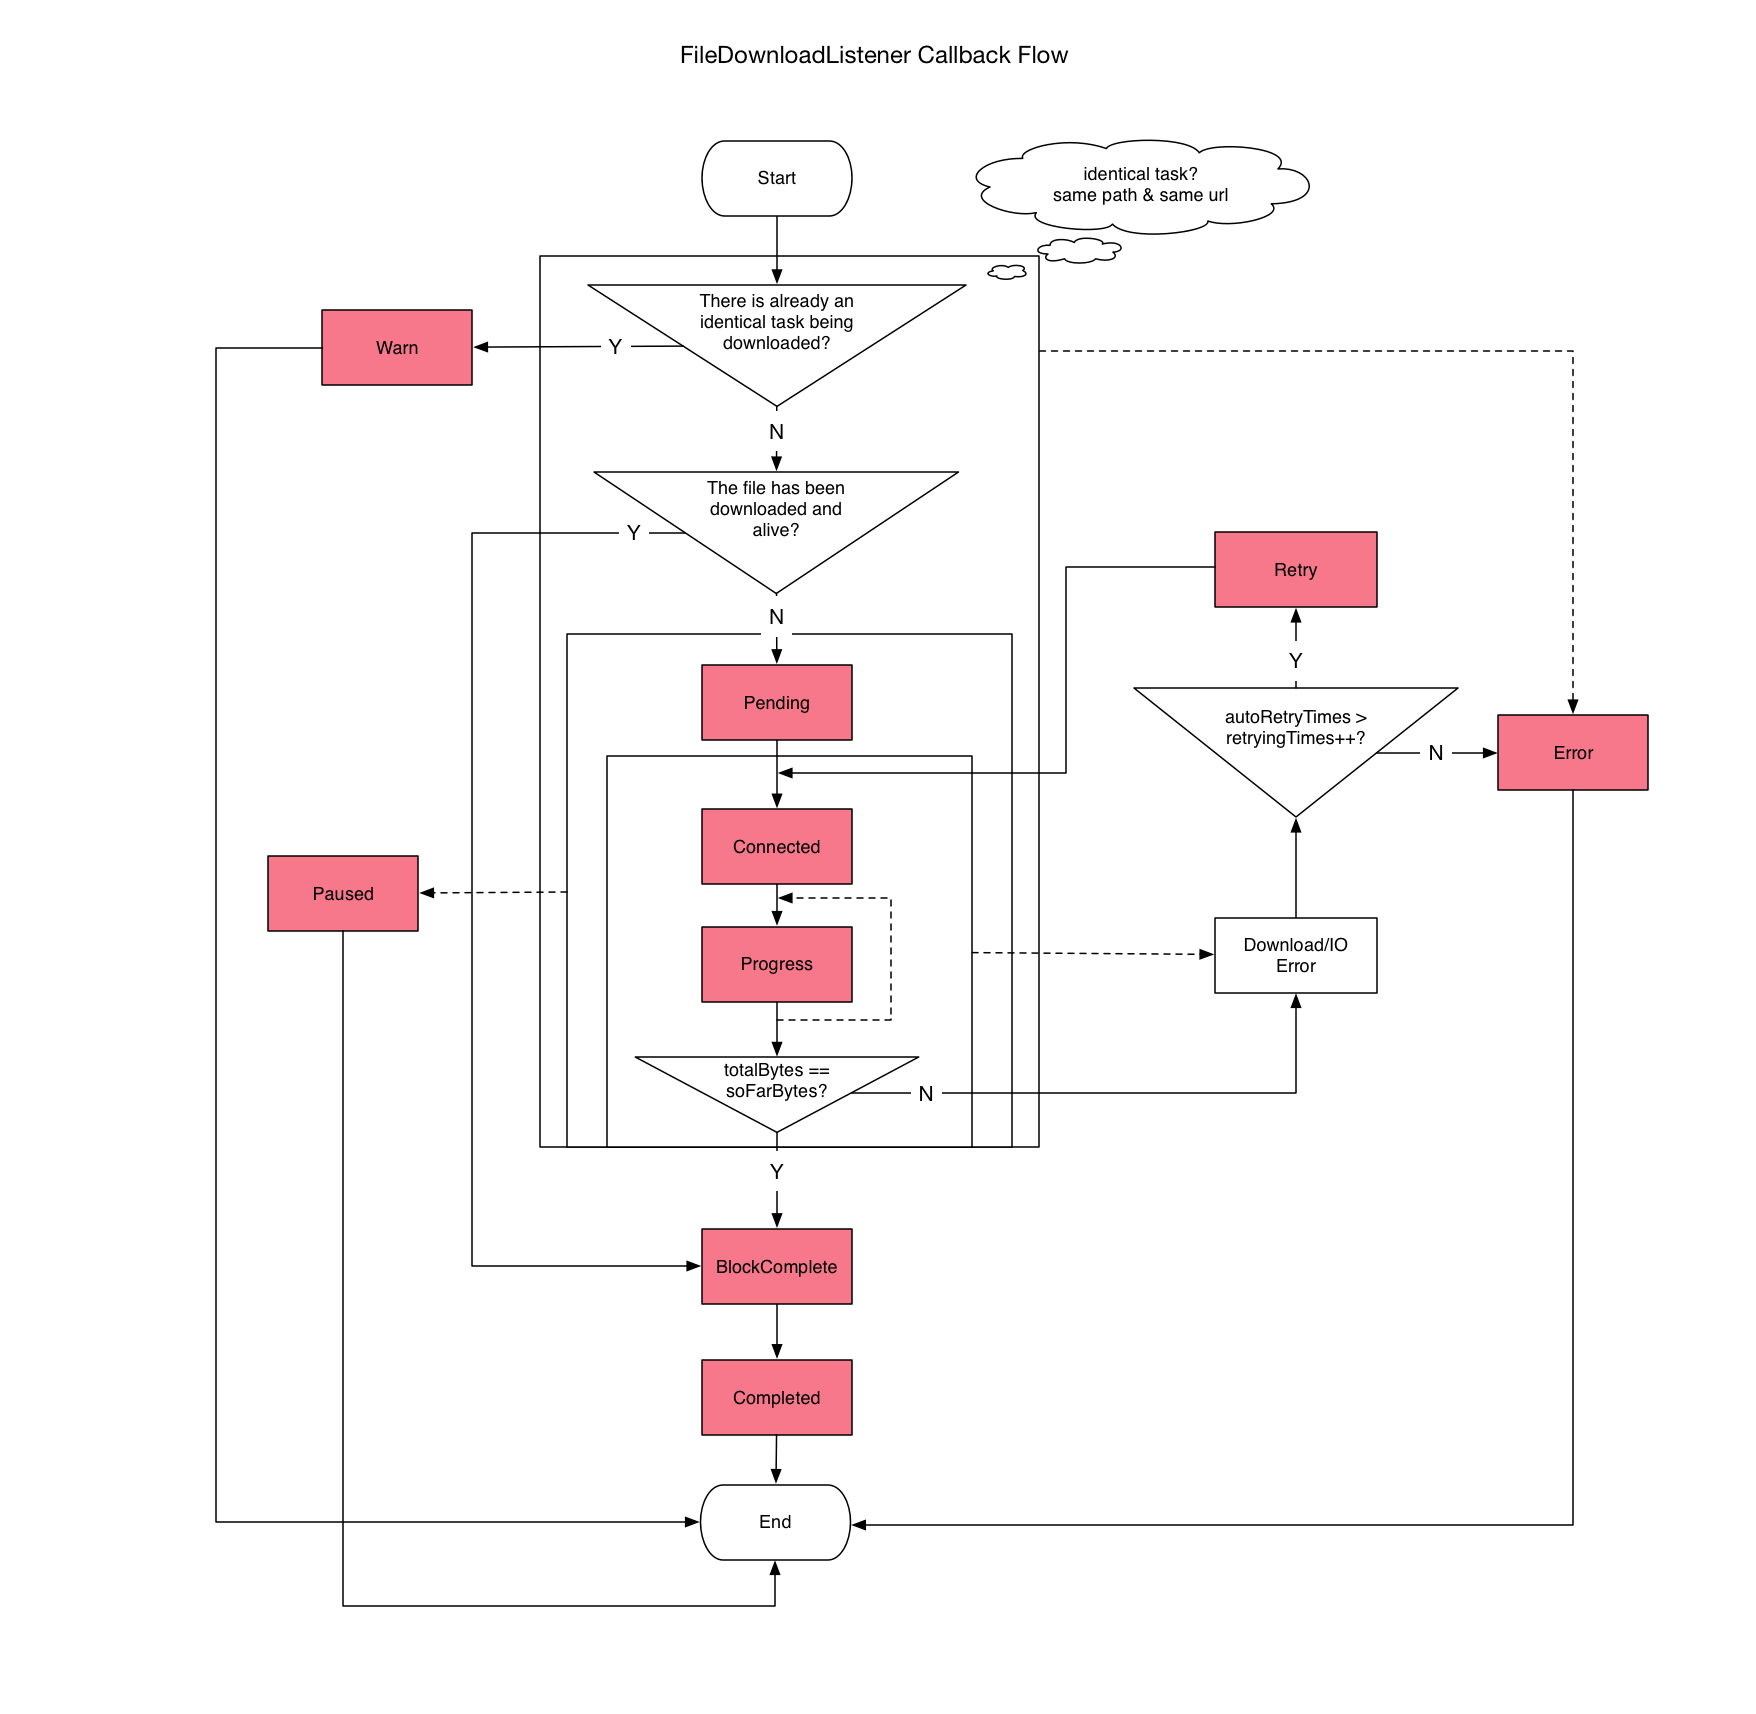
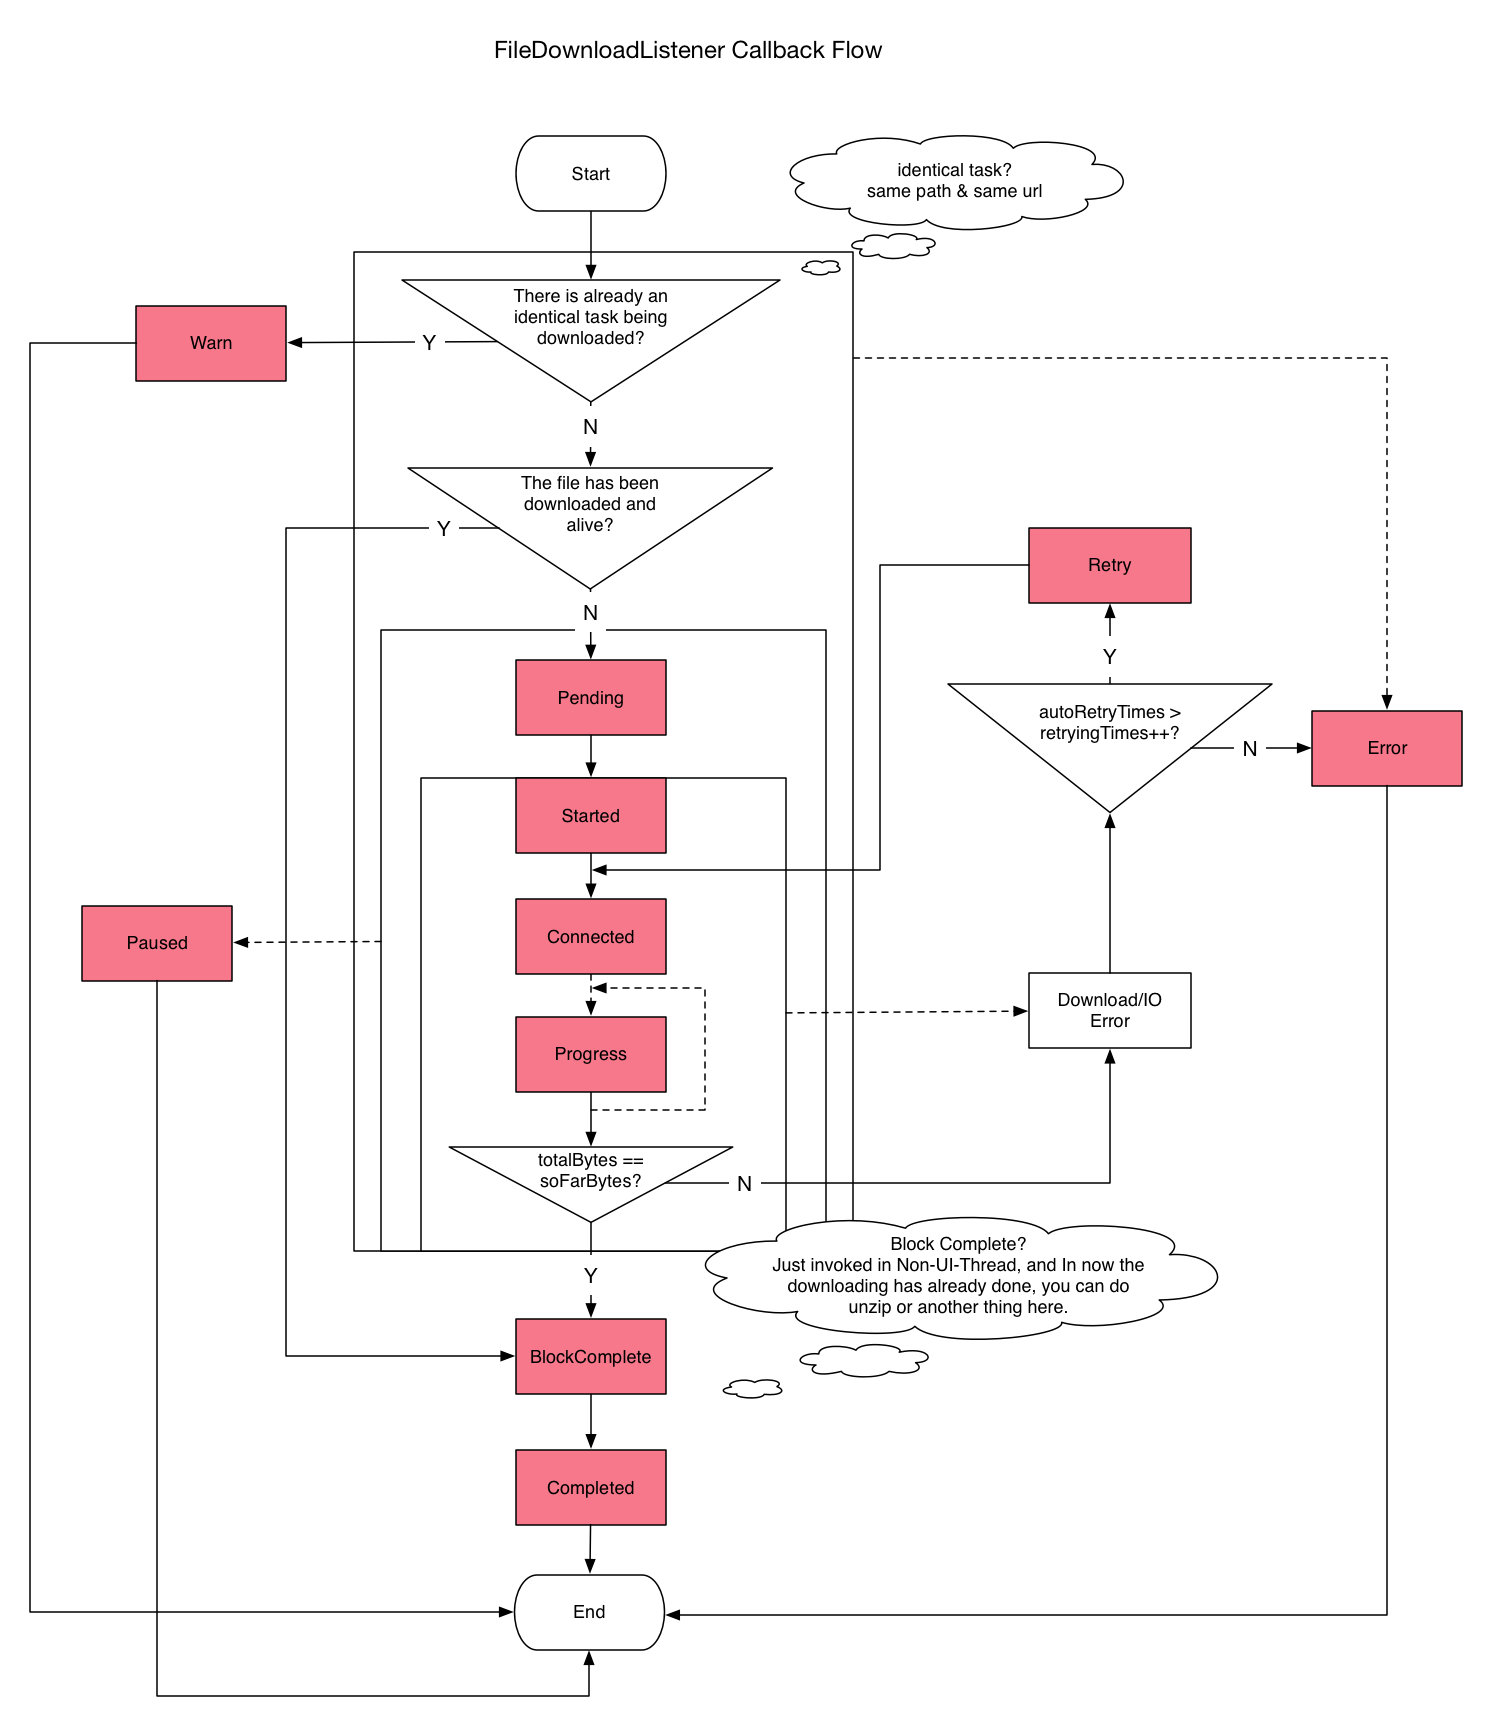
chore(upgrade): upgrade version name(0.2.2->0.2.3) code(13->14)

diff --git a/README.md b/README.md
@@ -26,7 +26,7 @@ FileDownloader is installed by adding the following dependency to your build.gra
 
 ```
 dependencies {
-    compile 'com.liulishuo.filedownloader:library:0.2.2'
+    compile 'com.liulishuo.filedownloader:library:0.2.3'
 }
 ```
 
@@ -280,7 +280,7 @@ queueSet.start();
 ##### Natural callback flow :
 
 ```
-pending -> connected -> (progress <->progress) -> blockComplete -> completed
+pending -> started -> connected -> (progress <->progress) -> blockComplete -> completed
 ```
 
 ##### Maybe get follow callback and finish the download:
@@ -298,6 +298,7 @@ blockComplete -> completed
 | function | description | update
 | --- | --- | ---
 | pending | Pending for download | soFarBytes、totalBytes
+| started | Finish pending, and start the download runnable for the task | -
 | connected | Connected to the remote file server | ETag、IsResumeBreakpoint、 soFarBytes、totalBytes
 | progress | Download progress | soFarBytes
 | blockComplete | Callback before the 'completed callback' sync in the new thread| -
@@ -334,10 +335,11 @@ blockComplete -> completed
 
 | interface | description
 | --- | ---
-| onRequestStart(count:int, serial:boolean, lis:FileDownloadListener) | will be invoked when request to start multi-tasks manually
-| onRequestStart(task:BaseDownloadTask) | will be invoked when request to start the task manually
-| onTaskBegin(task:BaseDownloadTask) | will be invoked when the task in the internal is begin(before pending)
-| onTaskOver(task:BaseDownloadTask) | will be invoked when the task in the internal is over(finish all lifecycle of the task)
+| onRequestStart(count:int, serial:boolean, lis:FileDownloadListener) | Will be invoked when request to start multi-tasks manually
+| onRequestStart(task:BaseDownloadTask) | Will be invoked when request to start the task manually
+| onTaskBegin(task:BaseDownloadTask) | Will be invoked when the task in the internal is begin(before pending)
+| onTaskStarted(task:BaseDownloadTask) | Will be invoked when the task finish pending and start download runnable
+| onTaskOver(task:BaseDownloadTask) | Will be invoked when the task in the internal is over(finish all lifecycle of the task)
 
 #### `FileDownloadUtils`
 
@@ -367,7 +369,8 @@ blockComplete -> completed
 | --- | ---
 | `FileDownloadHttpException`| Throw this exception, when the HTTP status code is not 200(HTTP_OK),  and not 206(HTTP_PARTIAL) either. You can find the request-header, the response-header and response-code in this exception.
 | `FileDownloadGiveUpRetryException` | Throw this exception, when can't know the size of the download file, and its Transfer-Encoding is not Chunked either; And With this exception, will ignore all retry-chances(`BaseDownloadTask#setAutoRetryTimes`). You can ignore such exception by add `http.lenient=true` to the `filedownloader.properties`, and will download directly as a Chunked-Resource.
-| Others | Program Exception, or the free space is not enough to store the download-file will throw the `IOException` .
+| `FileDownloadOutOfSpaceException` | Throw this exception, when the file will be downloaded is too large to store.
+| Others | some program Exceptions.
 
 ## Attention
 

diff --git a/README-zh.md b/README-zh.md
@@ -46,7 +46,7 @@ Android 文件下载引擎，稳定、高效、简单易用
 在项目中引用:
 
 ```
-compile 'com.liulishuo.filedownloader:library:0.2.2'
+compile 'com.liulishuo.filedownloader:library:0.2.3'
 ```
 
 #### 全局初始化在`Application.onCreate`中
@@ -280,7 +280,7 @@ if (parallel) {
 ##### 一般的下载回调流程:
 
 ```
-pending -> connected -> (progress <->progress) -> [retry] -> blockComplete -> completed
+pending -> started -> connected -> (progress <->progress) -> blockComplete -> completed
 ```
 
 ##### 可能会遇到以下回调而直接终止整个下载过程:
@@ -300,6 +300,7 @@ blockComplete -> completed
 | 回调方法 | 备注 | 带回数据
 | --- | --- | ---
 | pending | 等待，已经进入下载队列 | 数据库中的soFarBytes与totalBytes
+| started | 结束了pending，并且开始当前任务的Runnable | -
 | connected | 已经连接上 | ETag, 是否断点续传, soFarBytes, totalBytes
 | progress | 下载进度回调 | soFarBytes
 | blockComplete | 在完成前同步调用该方法，此时已经下载完成 | -
@@ -338,8 +339,9 @@ blockComplete -> completed
 | --- | ---
 | onRequestStart(count:int, serial:boolean, lis:FileDownloadListener) | 将会在启动队列任务是回调这个方法
 | onRequestStart(task:BaseDownloadTask) | 将会在启动单一任务时回调这个方法
-| onTaskBegin(task:BaseDownloadTask) | 将会在内部开始该任务的时候回调这个方法(会在`pending`回调之前)
-| onTaskOver(task:BaseDownloadTask) | 将会在该任务走完所有生命周期是回调这个方法
+| onTaskBegin(task:BaseDownloadTask) | 将会在内部接收并开始task的时候回调这个方法(会在`pending`回调之前)
+| onTaskStarted(task:BaseDownloadTask) | 将会在task结束pending开始task的runnable的时候回调该方法
+| onTaskOver(task:BaseDownloadTask) | 将会在task走完所有生命周期是回调这个方法
 
 #### `FileDownloadUtils`
 
@@ -370,7 +372,8 @@ III. 异常处理
 | --- | ---
 | `FileDownloadHttpException`| 在发出请求以后，response-code不是200(HTTP_OK)，也不是206(HTTP_PARTIAL)的情况下会抛出该异常; 在这个异常对象会带上 response-code、response-header、request-header。
 | `FileDownloadGiveUpRetryException` | 在请求返回的 response-header 中没有带有文件大小(content-length)，并且不是流媒体(transfer-encoding)的情况下会抛出该异常；出现这个异常，将会忽略所有重试的机会(`BaseDownloadTask#setAutoRetryTimes`). 你可以通过在 `filedownloader.properties`中添加 `http.lenient=true` 来忽略这个异常，并且在该情况下，直接作为流媒体进行下载。
-| 其他 | 程序错误; 或者是本地的存储空间已经不足以存储将要下载的文件会直接抛出`IOException` 。
+| `FileDownloadOutOfSpaceException` | 当将要下载的文件大小大于剩余磁盘大小时，会抛出这个异常。
+| 其他 | 程序错误。
 
 
 

diff --git a/CHANGELOG-ZH.md b/CHANGELOG-ZH.md
@@ -2,6 +2,32 @@
 
 > [ Change log in english](https://github.com/lingochamp/FileDownloader/blob/master/CHANGELOG.md)
 
+## Version 0.2.3
+
+_2016-04-11_
+
+#### 新接口
+
+- 添加 `FileDownloadOutOfSpaceException`, 当将要下载的文件大小大于剩余磁盘大小时，会抛出这个异常。
+- 在 `FileDownloadListener` 新增 `started` 回调方法: 在结束 `pending` 开始运行当前任务的线程时，回调该方法。
+- 在 `FileDownloadMonitor.IMonitor` 新增 `onTaskStarted` 回调方法，用于监控在结束 `pending` 开始运行当前任务的线程时，回调该方法。这样就可以在监控中通过 `onTaskBegin`到`onTaskStarted`计算出pending的时间，在`onTaskStarted`到`onTaskOver`计算出真正消耗在下载的时间(Connection、Fetching)。
+
+#### Enhancement
+
+- 提高实用性: 为 `FinishListener` 的 `over` 方法提供所指向的Task，为了有些时候我们为多个任务添加相同的 `FinishListener` 时，需要这个参数来判断当前是哪个任务的回调。 Closes #69 。
+- 提高稳定性: 如果调用一个正在运行中的Task对象的 `start` 方法，直接抛异常；并且为已经结束的Task对象提供 `BaseDownloadTask#reuse` 进行复用。 Closes #91 。
+- 提高性能: 在进入事件队列之前，拦截掉一些原本就没有监听器进行监听的事件。
+
+#### Fix
+
+- 修复: 在一些极端情况下，非结束的回调回调次数不符合预期的情况。
+- 修复: `progress` 方法的回调中包含了对完成( `sofarBytes==totalBytes` )的回调，导致回调间隔不达预期的bug。
+- 修复: 在 `warn` 回调带回 total-bytes，为了覆盖在 主进程被杀，下载进程存在的情况下，主进程重新重启并启动相同任务，total-bytes为0的bug。 Closes #90 。
+- 修复: 如果连续出现失败，连续回调 `retry` 时，`retry` 只被回调一次，其他的次数的 `retry` 都不被回调的bug。 Refs: #91 。
+- 修复: 在无网络状态下，启动下载，如果存在重试的机会，下载的进度被覆盖，导致下次无法断点续传的bug。 Closes #92 。
+- 修复: 有可能在'检测是否可以复用'到'检测是否在下载队列'的这段时间内已经下载完成但是任务还在队列中的极端情况。
+- 修复: 线性任务，在下载进程被杀重新启动被转为并行任务的bug。
+
 ## Version 0.2.2
 
 _2016-04-06_

diff --git a/CHANGELOG.md b/CHANGELOG.md
@@ -2,6 +2,32 @@
 
 > [中文迭代日志](https://github.com/lingochamp/FileDownloader/blob/master/CHANGELOG-ZH.md)
 
+## Version 0.2.3
+
+_2016-04-11_
+
+#### New Interfaces
+
+- Add `FileDownloadOutOfSpaceException`, Throw this exception, when the file will be downloaded is too large to store.
+- Add new call-back method in `FileDownloadListener`: `started` which will be invoked when finish pending, and start the download runnable.
+- Add new call-back method in `FileDownloadMonitor.IMonitor`: `onTaskStarted` which will be invoked when finish pending, and start the download runnable.
+
+#### Enhancement
+
+- Improve Practicability: Provide the current task to the method `over` in `FinishListener`, for recognizing target task in case of one-FinishListener for more than one task. Closes #69 .
+- Improve Robust: Throw the exception directly when invoke `BaseDownloadTask#start` for a running-task object, add provide 'reuse' method to reuse a used and already finished task object. Closes #91 .
+- Improve Performance: Intercept the enqueue operate for the otiose event which is no listener for handling it.
+
+#### Fix
+
+- Fix: In handful cases the task-call-back flow not follow the expect.
+- Fix: `progress` call-back included the ending frame ( `sofarBytes == totalBytes` ).
+- Fix: Carry back the total bytes in the status of warn, for covering the case of UI-process had killed but has restarted App with restarting the task and download-process is alive still, the total bytes is 0 in UI-process. Closes #90 .
+- Fix: Can't call-back 'retry' in expect, the case of the call-back method 'retry' one-by-one. Refs: #91 .
+- Fix: The wrong sofar bytes will cover the right one, when occur error in no-network and has chance to retry. Closes #92 .
+- Fix: Handle the case of the downloading is finished during the 'check-reuse' to 'check-downloading' in filedownloader-process.
+- Fix: The serial-queue converts to The parallel-queue in restoring from filedownloader-process has killed and restarting.
+
 ## Version 0.2.2
 
 _2016-04-06_
